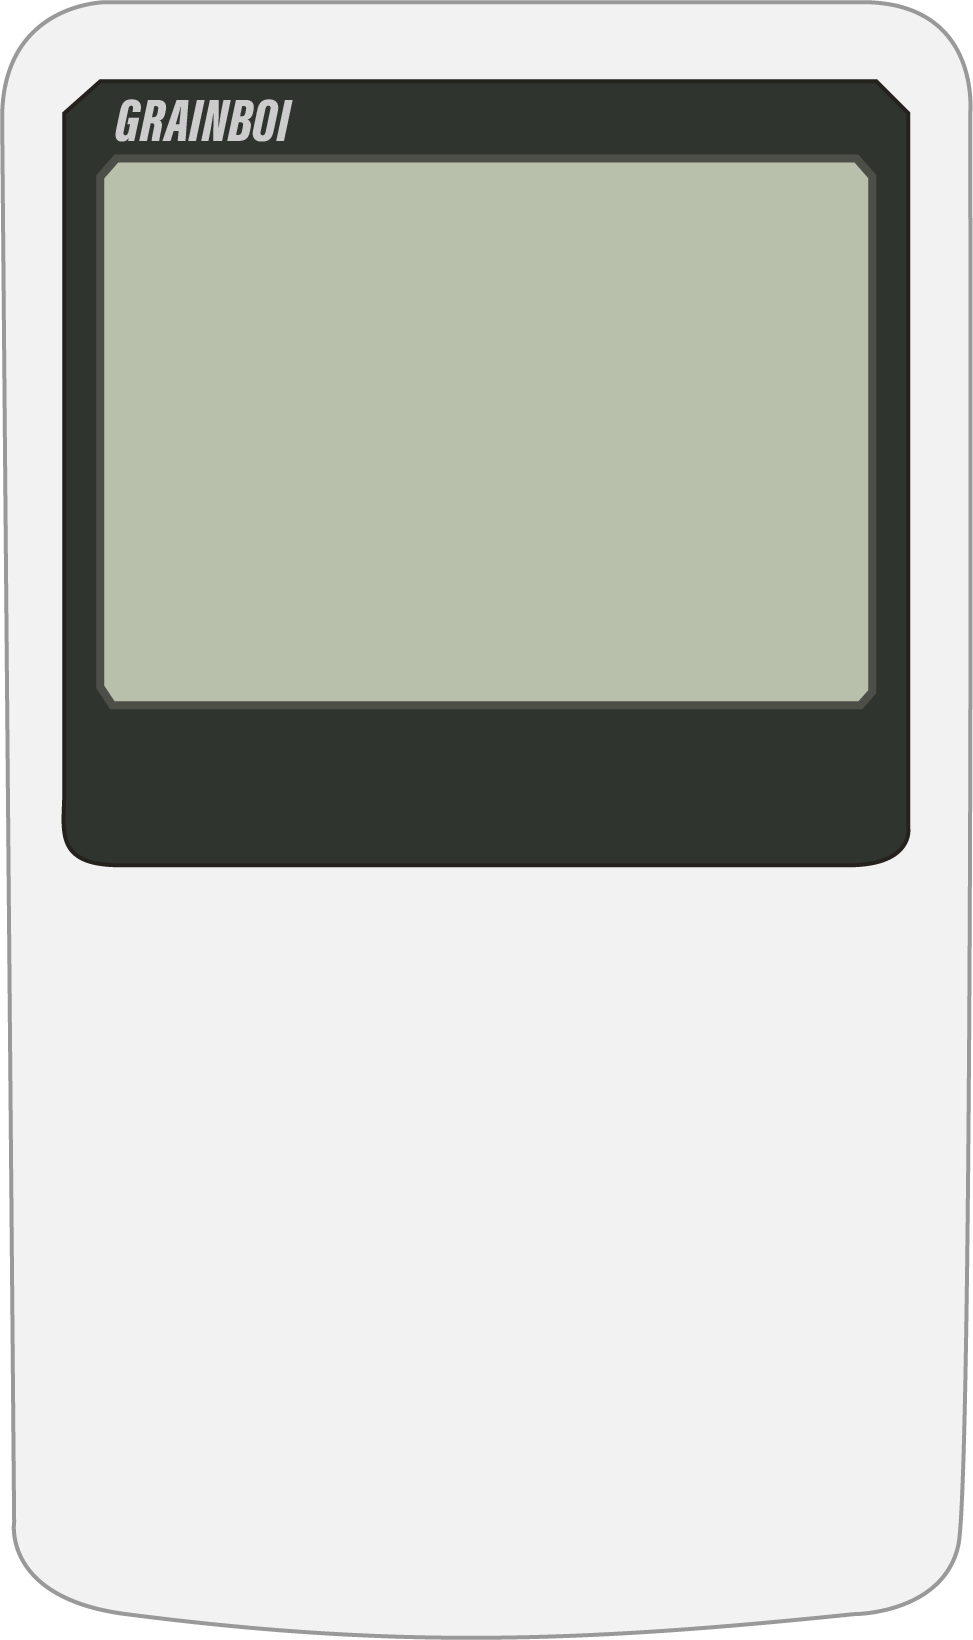
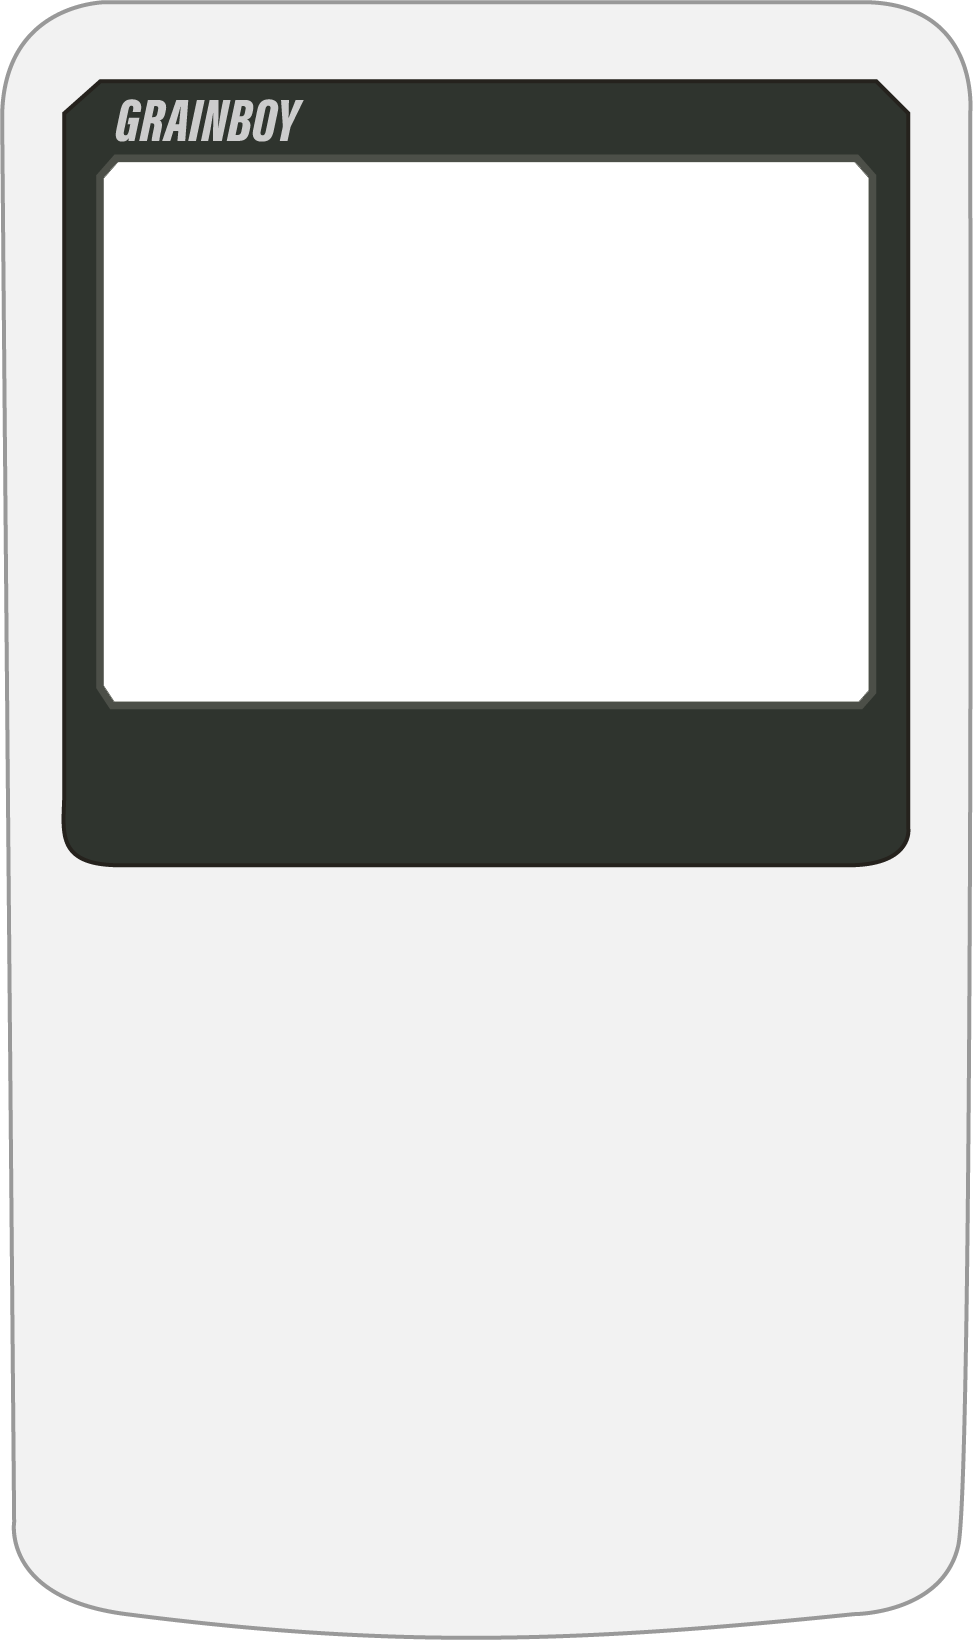
screen, utility functions

Changed region(s): [[0.0925, 0.0622, 0.8941, 0.4354]]

diff --git a/jsynth/src/App.js b/jsynth/src/App.js
@@ -7,6 +7,7 @@ import VideoSynth, { vidParam, vid } from './sketch';
 import Modules from './modules';
 import SoundData from './soundData';
 import Time from "./time";
+import {ar} from './utility'
 
 
 
@@ -27,17 +28,15 @@ const sound = SoundData;
 const time = Time;
 const noteArray = time.noteArray;
 
-Array.prototype.move = function (from, to) {
-  this.splice(to, 0, this.splice(from, 1)[0]);
-};
+
 const toTenth = (number) => parseFloat(number.toFixed(2));
 
 const videoSynth = VideoSynth();
 
 const delayPitch = {
   array: [12, 19, 24,-24, -17, -12, -5, 0, 7],
-  nextPitch() { this.array.move(0, 8); return this.array[0] },
-  prevPitch() { this.array.move(8, 0); return this.array[0] },
+  nextPitch() { ar.move(this.array, 0, 8); return this.array[0] },
+  prevPitch() { ar.move(this.array, 8, 0); return this.array[0] },
   selected() { return this.array[0] }
 }
 
@@ -104,9 +103,9 @@ let paramTimer;
 
 function getScreenText(text, type) {
   if (type === "select") {
-    return <svg key={text} className="screen-text-wrapper-select" viewBox="0 0 100 5"><text className="screen-text-select" x="1" y="4">{text}</text></svg>
+    return <svg key={text} className="screen-text-wrapper-select" viewBox="0 0 100 5"><text key= {text + "in"} className="screen-text-select" x="1" y="4">{text}</text></svg>
   }
-  return <svg key={text} className="screen-text-wrapper" viewBox="0 0 100 5"><text className="screen-text" x="1" y="4">{text}</text></svg>
+  return <svg key={text} className="screen-text-wrapper" viewBox="0 0 100 5"><text key= {text + "in"} className="screen-text" x="1" y="4">{text}</text></svg>
 
 }
 
@@ -140,7 +139,6 @@ const fxKnobs = () => [
   GetKnob("#FFFEFF", "#CCCCCC", "seven"),
   GetKnob("#FE6D2C", "#BD5226", "eight"),
 ]
-
 const videoKnobs = () => [
   GetKnob("#7AB2E3", "#0071BC", "nine"),
   GetKnob("#61CD77", "#009245", "ten"),
@@ -148,15 +146,17 @@ const videoKnobs = () => [
   GetKnob("#FE6D2C", "#BD5226", "twelve"),
 ]
 
+
 function App() {
+
   const [width, setWidth] = React.useState(appStyles.canvasWidth);
   const [height, setHeight] = React.useState(appStyles.canvasHeight);
   const [disp, setDisp] = React.useState({
-    modes: ["Select_Audio", "Video Synth"],
+    modes: ["Video Synth","Select_Audio"],
     selected: () => "Default",
     next: () => {
       disp.selected = () => disp.modes[0]
-      disp.modes.move(0, 3)
+      ar.move(disp.modes,0, 3)
     },
     set: function (mode) {
       if (mode) this.selected = () => mode;
@@ -179,7 +179,6 @@ function App() {
   const getSoundList = () => {
     let out = [];
     for (let file in sound.files[sound.currentPage]) {
-
       let fileList = sound.files[sound.currentPage];
       if (fileList[file] === fileList[sound.selected]) {
         out.push(getScreenText(fileList[file].name, "select"))
@@ -221,10 +220,10 @@ function App() {
       getParamDisplay(disp.selected())
     }
     return (
-      <div key="fileselect" style={{ width: "100%", height: "100%" }}>
+      <> 
         <input key="uploadREf" style={{ display: "none" }} ref={fileUploadRef} id="audio_file" type="file" multiple accept="audio/*" onChange={() => { pushAudio(fileUploadRef.current.files) }} />
         <input key="uploadUI" className="screen-button-overlay" type="button" onMouseDown={() => fileUploadRef.current.click()} />
-      </div>
+      </>
     )
   }
 
@@ -430,6 +429,10 @@ function App() {
       pitchShift.pitch = delayPitch.nextPitch();
       param = "sparkle tune " + pitchShift.pitch.toString();
     }
+    else if (mode === "Video Synth") {  
+      vid.nextScale();
+      param = "scale " + vid.scale();
+    }
 
     getParamDisplay(param);
 
@@ -454,7 +457,6 @@ function App() {
       
       vid.changeColor();
       param = "color"
-     
 
     }
 
@@ -565,14 +567,17 @@ function App() {
   }, []);
 
   return (
-    <div>
+    <div key="master">
       {/* {selector} */}
-      <div className="grainboi" style={{ position: "absolute", width: appStyles.gameWidth(), height: appStyles.gameHeight() }}>
-        <div style = {{background: vid.selectedColors()[1]}}className="display">
+      <div key="game" className="grainboi" style={{ position: "absolute", width: appStyles.gameWidth(), height: appStyles.gameHeight() }}>
+      
+        <div className="display">
           {screen2}
           {paramDisplay}
-          {AddFile()}
+          
+          
         </div>
+        {AddFile()}
         <div className="knob-bar">
           {topKnobs}
         </div>

diff --git a/jsynth/src/sketch.js b/jsynth/src/sketch.js
@@ -1,19 +1,8 @@
 import React from "react";
 import Sketch from "react-p5";
 import Modules from './modules';
-
-Array.prototype.move = function (from, to) {
-    this.splice(to, 0, this.splice(from, 1)[0]);
-};
-
-Array.prototype.shuffle = function () {
-    for (var i = this.length - 1; i > 0; i--) {
-        var j = Math.floor(Math.random() * (i + 1));
-        var temp = this[i];
-        this[i] = this[j];
-        this[j] = temp;
-    }
-}
+import {ar} from './utility';
+  
 
 export const vid = {
     frag: 1, //between 1 and 10
@@ -23,23 +12,25 @@ export const vid = {
     speed: 1, //low/200
     scrSpeeds: [-1, 0, .25, .5, 1, 1.5, 3],
     directs: ["left", "right", "up", "down"],
-    colors: ["#3f3f3f","#B8C0AB","#FBF2EE", "#18172A","#FFDCD1", "3B3B3B", "#FD4A62", "#FE9CAB", "#3CA0AE", "#313655", "#EAA160"],
+    colors: ["#3f3f3f","#B8C0AB", "#18172A","#FFDCD1", "#3B3B3B", "#FD4A62", "#FE9CAB", "#3CA0AE", "#313655", "#EAA160"],
+    // colors: ["#3f3f3f", "#B8C0AB", "#2D2D2D","#0071BC", "#7AB2E3", "#61CD77", "#FE6D2C", "#D94950"  ],
     selectedColors: () => [vid.colors[0], vid.colors[1]],
-    changeColor: () => vid.colors.shuffle(),
+    changeColor: () => {ar.shuff(vid.colors); console.log(vid.colors)},
     direction: () => vid.directs[0],
-    nextSpeed: () => vid.scrSpeeds.move(0, vid.scrSpeeds.length - 1),
+    nextSpeed: () => ar.move(vid.scrSpeeds, 0, vid.scrSpeeds.length - 1),
     scrollSpeed: () => vid.scrSpeeds[0], //0 up
     stagger: () => Number.isInteger(vid.scrollSpeed()) ? 0 : 16,
     scrollVal: () => vid.scrollSpeed() > -1 ? (vid.t ^ vid.stagger()) << vid.scrollSpeed() : 0,
     opts: ["AND", "XOR", "SHIFT"],
     operator: () => vid.opts[0],
-    nextOp: () => vid.opts.move(0, vid.opts.length - 1),
-    prevOp: () => vid.opts.move(vid.opts.length - 1, 0),
+    nextOp: () => ar.move(vid.opts, 0, vid.opts.length -1), 
     t: 10000,
-    scale: 3,
+    scaleOp: [2,3,4,6,10],
+    nextScale: () => ar.move(vid.scaleOp, 0, vid.scaleOp.length -1),//vid.scaleOp.move(0, vid.scaleOp.length - 1),
+    scale: () => vid.scaleOp[0],
     threshold: 300,
-    getScreenWidth: () => 340 / vid.scale,
-    getScreenHeight: () => 240 / vid.scale
+    getScreenWidth: () => 340 / vid.scale(),
+    getScreenHeight: () => 240 / vid.scale()
 
 }
 
@@ -64,7 +55,7 @@ function VideoSynth() {
 
     let refresh = (p5, ref) => {
         p5.clear(); // use parent to render canvas in this ref (without that p5 render this canvas outside your component)
-        p5.scale(vid.scale);
+        p5.scale(vid.scale());
         p5.stroke(vid.selectedColors()[0]);
         p5.background(vid.selectedColors()[1])
     }

diff --git a/jsynth/src/App.css b/jsynth/src/App.css
@@ -25,37 +25,42 @@
 }
 .grainboi{
  
+  
   padding: 0;
-  margin-left: 100px;  
+  margin: 0;  
   background-image: url("./assets/4x/Grainboi.png"); 
   background-repeat: no-repeat;
   background-size: cover;
-  margin-top: 20px; 
+
 }
 .display{
   position: relative;
-  /* background-color: #C0C2C0; */
+  background-color: #B8C0AB;
 
   padding: 0;
-  width: 76%;
-  height: 31.5%;
+  width: 80%;
+  height: 35%;
   margin-bottom: 1%; 
+  z-index: -1;
   
   margin:0 auto;
   overflow: hidden;
-  top: 10.5%;
+  top: 9%;
  
 }
 .screen-button-overlay{
   position: absolute;
-  top: 0;
+
+  top: 10%;
   left: 0;
   padding: 0;
   margin: 0;
+  z-index: 1;
   background: transparent;
+  left: 10%;
   border: none;
-  height: 100%;
-  width: 100%;
+  height: 32%;
+  width: 80%;
 }
 
 .knob-bar{
@@ -66,7 +71,7 @@
     padding: 0px;
     height: 10%;
     margin: 0 auto;
-    margin-top: 20%;
+    margin-top: 14.5%;
  
   
 }
@@ -218,8 +223,8 @@
 
   width: 50%;
   height: 10%;
-  top: 0;
-  right: 0;
+  top: 4%;
+  right: 2%;
  
 }
 .d-btn{

diff --git a/jsynth/src/utility.js b/jsynth/src/utility.js
@@ -1,0 +1,12 @@
+export const ar = {
+    move: (arr, from, to) => arr.splice(to, 0, arr.splice(from, 1)[0]), 
+    shuffle: (arr) => {
+        for (let i = arr.length - 1; i > 0; i--) {
+            let j = Math.floor(Math.random() * (i + 1));
+            let temp = arr[i];
+            arr[i] = arr[j];
+            arr[j] = temp;
+        }
+    },
+    shuff: (arr) => arr.map((v, k) => ar.move(arr, Math.floor(Math.random() * k + 1), k)) //slightly less random
+}

diff --git a/jsynth/src/input-knobs-master/input-knobs.js b/jsynth/src/input-knobs-master/input-knobs.js
@@ -218,7 +218,7 @@ input[type=checkbox].input-switch:checked,input[type=radio].input-switch:checked
         ik.oldvalue = el.value;
       }
       //this is where the value is set
-      console.log(el.max)
+  
       // knob[el.name].val = parseFloat(el.value)/parseFloat(el.max);
       knob[el.name].midi = parseInt(el.value);
 
